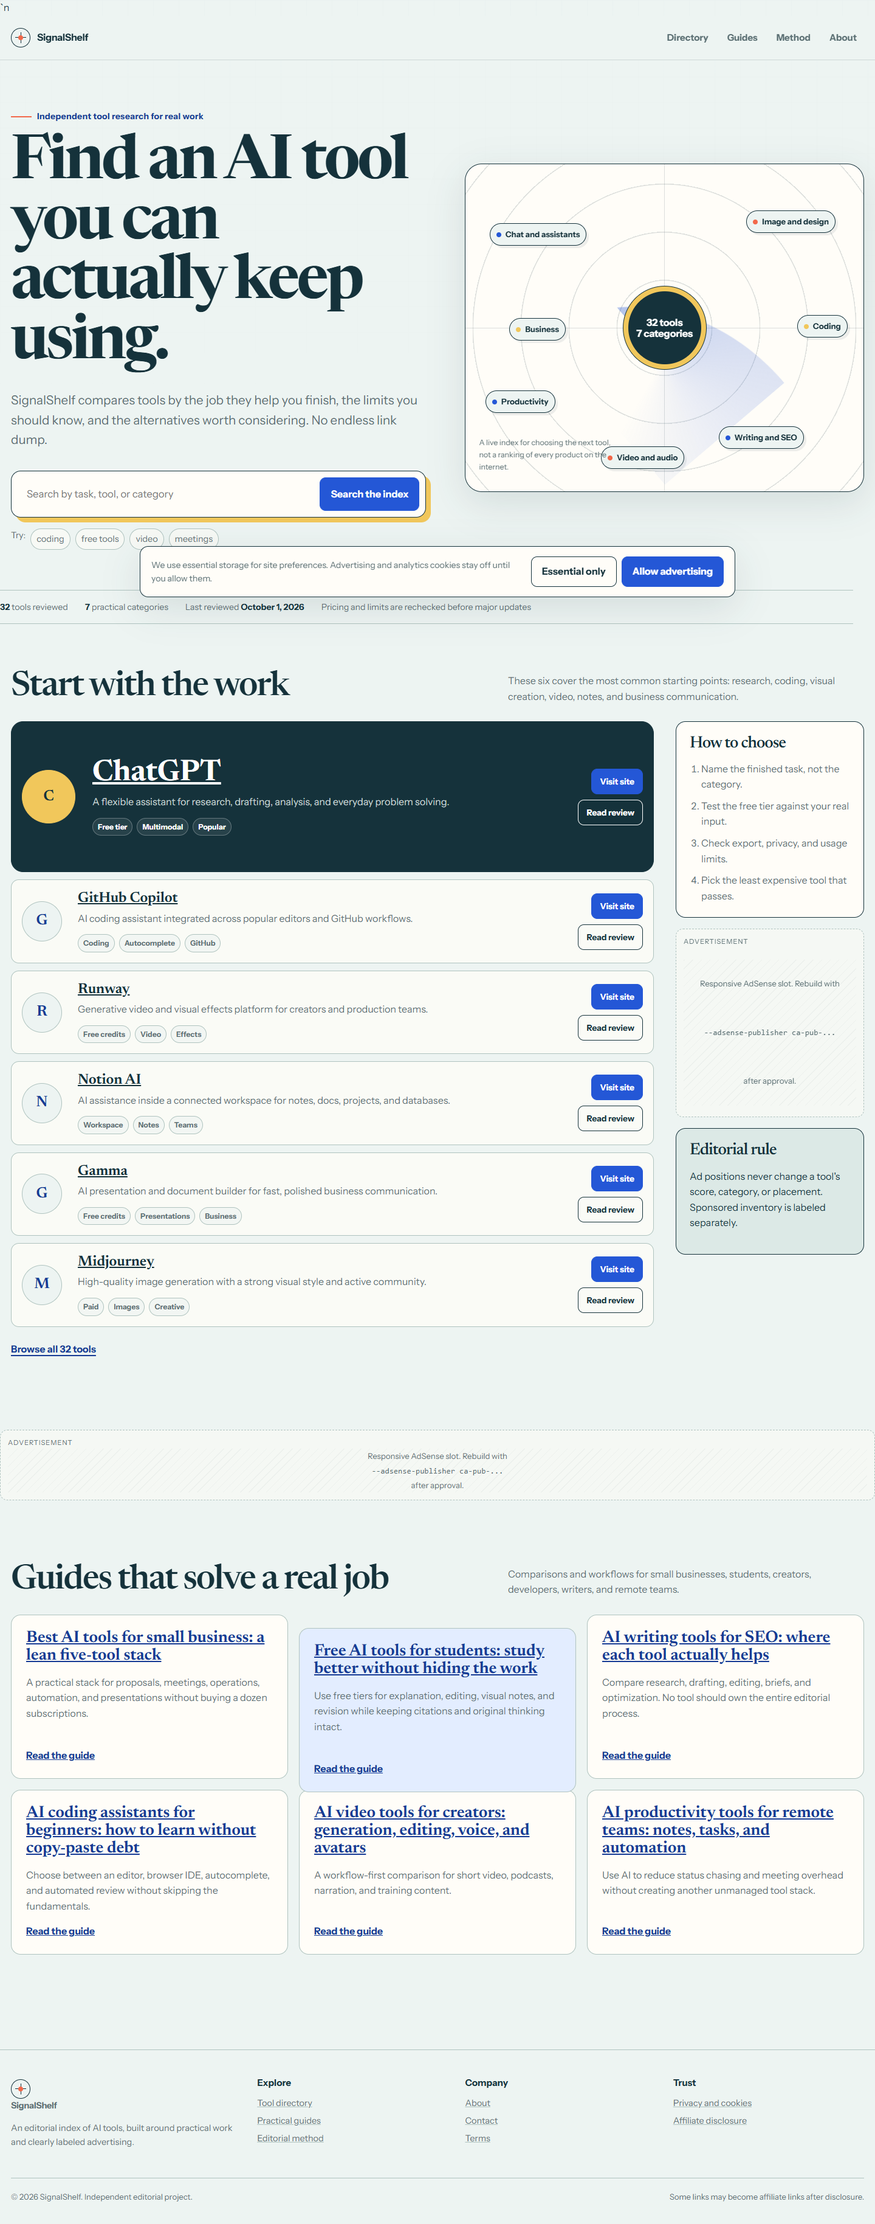
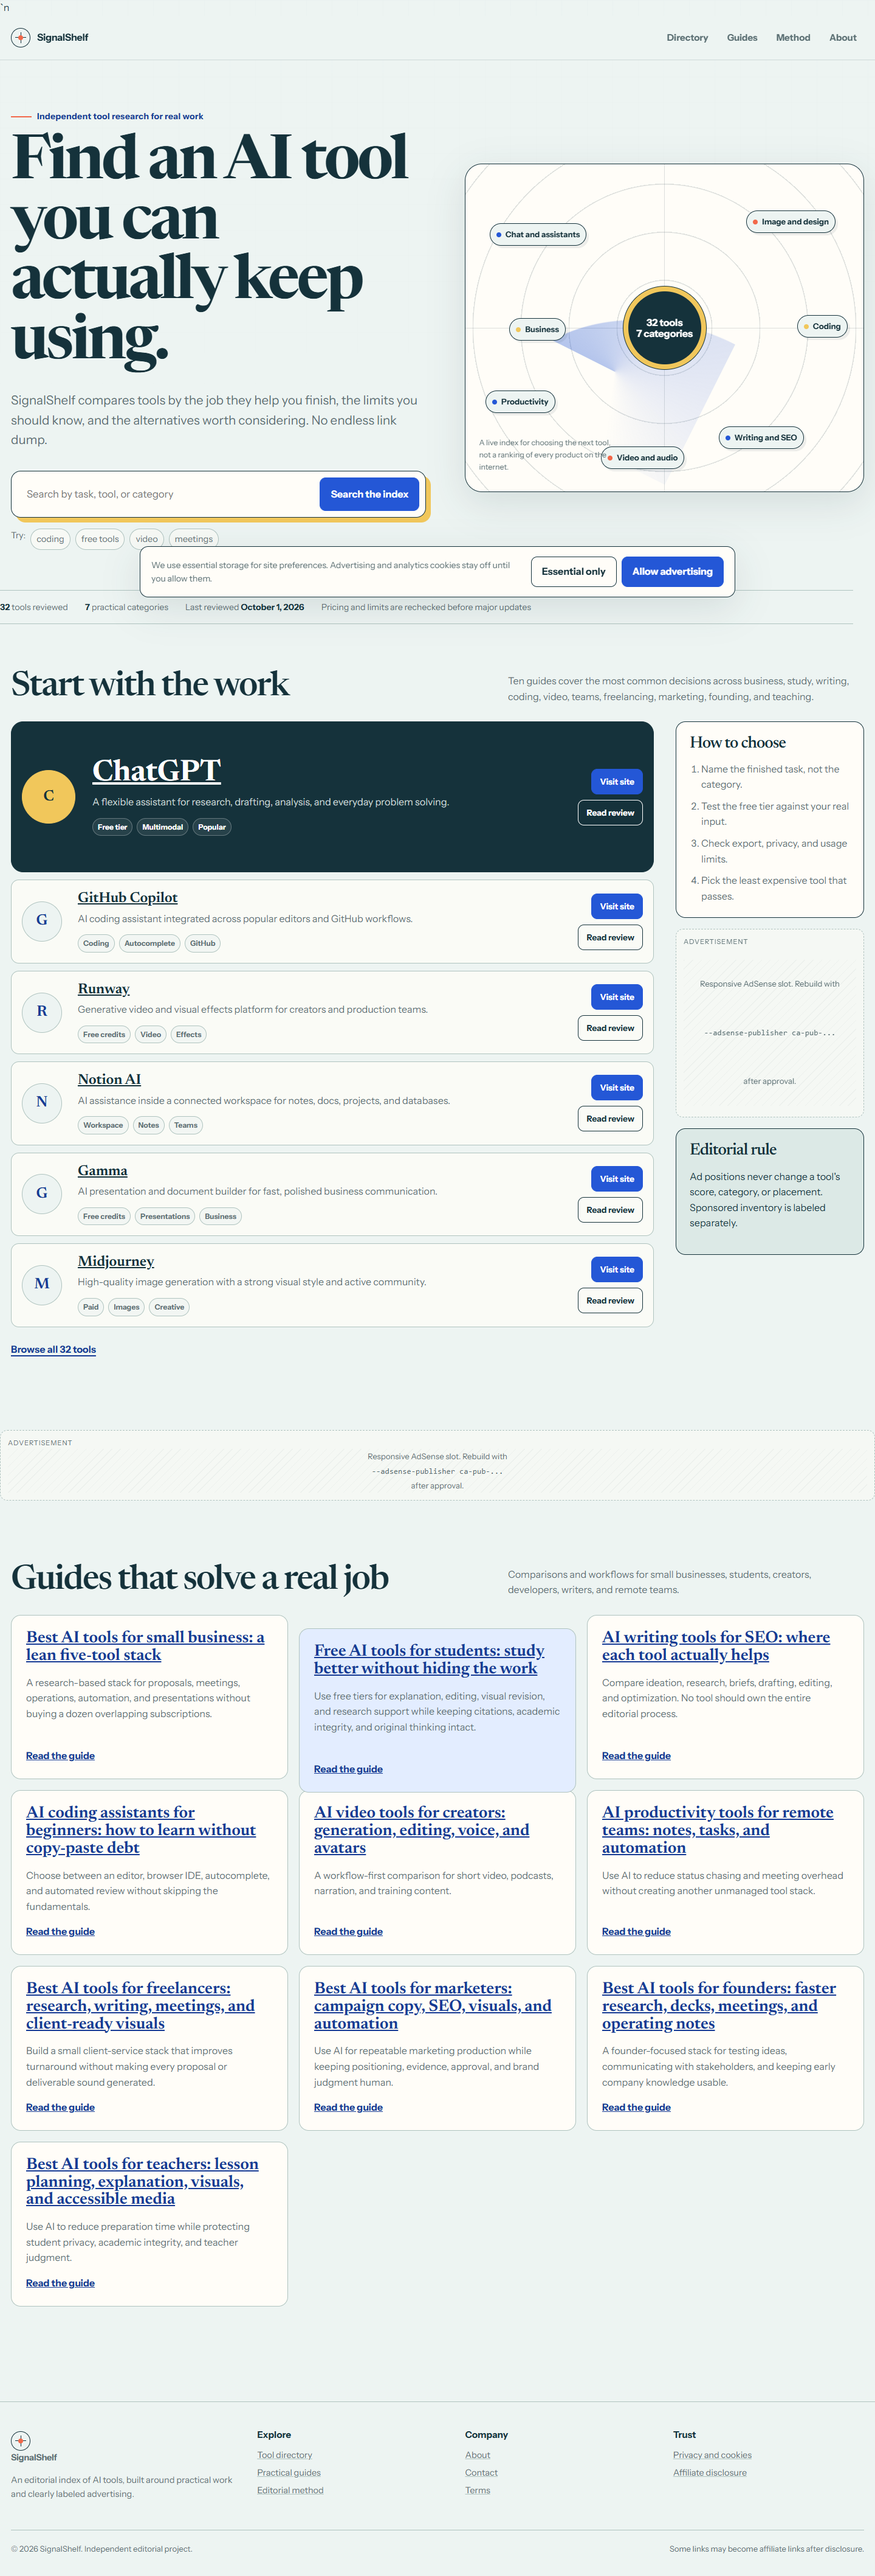
Keep browser screenshots in documentation folder

diff --git a/scripts/test_site.js b/scripts/test_site.js
@@ -27,7 +27,7 @@ const server = http.createServer((req, res) => {
   page.on('pageerror', error => errors.push(error.message));
 
   await page.goto('http://127.0.0.1:4173/', { waitUntil:'networkidle' });
-  await page.screenshot({ path:'C:/Users/syush/Documents/ChatGPT/廣告收入設定/site-home.png', fullPage:true });
+  await page.screenshot({ path:'C:/Users/syush/Documents/ChatGPT/廣告收入設定/docs/site-home.png', fullPage:true });
   const home = await page.evaluate(() => ({ title:document.title, h1:document.querySelector('h1')?.textContent, overflow:document.documentElement.scrollWidth > window.innerWidth }));
 
   await page.goto('http://127.0.0.1:4173/directory.html', { waitUntil:'networkidle' });
@@ -37,7 +37,7 @@ const server = http.createServer((req, res) => {
   await page.locator('[data-filter-search]').fill('video');
   await page.getByRole('button', { name:'All tools' }).click();
   const videoCount = await page.locator('[data-tool-row]:visible').count();
-  await page.screenshot({ path:'C:/Users/syush/Documents/ChatGPT/廣告收入設定/site-directory.png', fullPage:true });
+  await page.screenshot({ path:'C:/Users/syush/Documents/ChatGPT/廣告收入設定/docs/site-directory.png', fullPage:true });
 
   await page.goto('http://127.0.0.1:4173/tools/chatgpt.html', { waitUntil:'networkidle' });
   const toolTitle = await page.locator('h1').first().textContent();
@@ -49,10 +49,11 @@ const server = http.createServer((req, res) => {
   await page.getByRole('button', { name:'Toggle navigation' }).click();
   const mobileNavOpen = await page.locator('[data-site-nav]').evaluate(element => element.classList.contains('is-open'));
   const mobileOverflow = await page.evaluate(() => document.documentElement.scrollWidth > window.innerWidth);
-  await page.screenshot({ path:'C:/Users/syush/Documents/ChatGPT/廣告收入設定/site-mobile.png', fullPage:true });
+  await page.screenshot({ path:'C:/Users/syush/Documents/ChatGPT/廣告收入設定/docs/site-mobile.png', fullPage:true });
 
   console.log(JSON.stringify({ home, allCount, codingCount, videoCount, toolTitle, guideTitle, mobileNavOpen, mobileOverflow, errors }, null, 2));
   await browser.close();
   server.close();
 })().catch(error => { console.error(error); server.close(); process.exit(1); });
+
 
